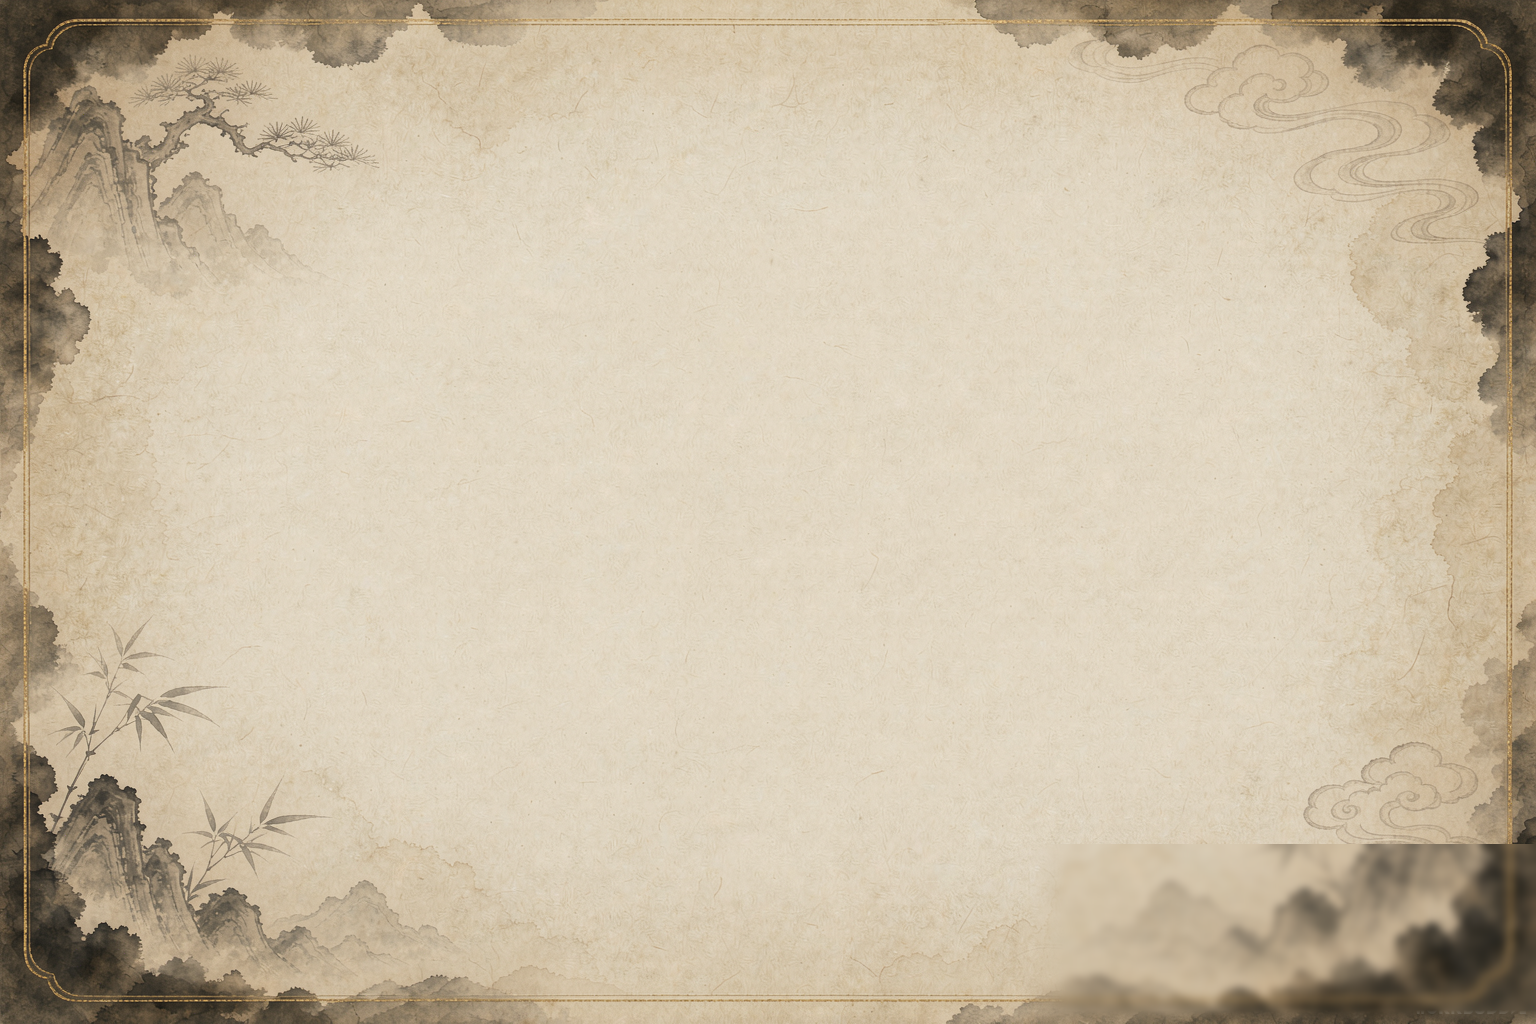
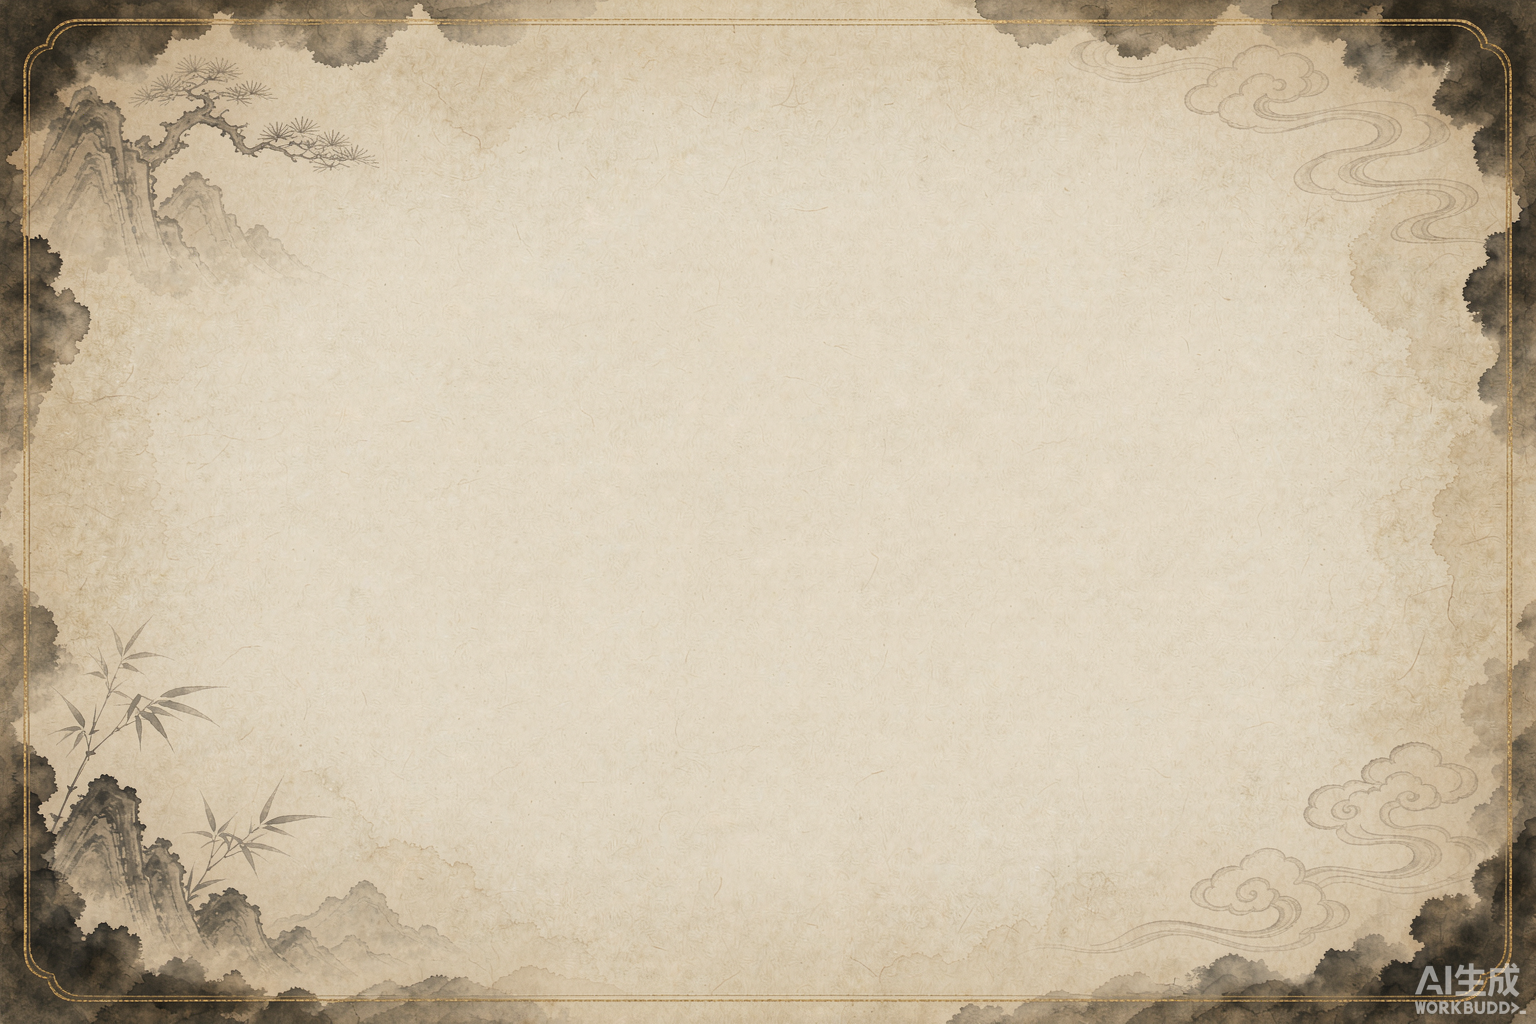
fix(编队): 出战列表只显示几行 — 名单区布局组 spacing 被撑到 109.6 + 模板行无 LayoutElement
根因：Root_Roster 的 Content 上 VerticalLayoutGroup.spacing = 109.6（应约 8），且 Item_Roster
模板行没有 LayoutElement ⇒ childControlHeight 按首选尺寸排版，行被撑大、740 高只放得下 2~3 行
（上一轮截图还是紧凑的 8 行列表）。

修：
- spacing → 8。
- 给 Item_Roster 加 LayoutElement（410×112）⇒ 一屏可见约 6 行，其余可滚动。
- UIPanelPrefabBuilder 同步（ScrollVertical spacing=8 + 模板行 LayoutElement），重建不会长回。

另：编队底图换回**未经处理的原始生成图**（不做模糊/修补、保留水印）——用户要求"不要自己加模糊，
有水印我自己处理"。

Changed region(s): [[0.6875, 0.8125, 1.0, 1.0]]

diff --git a/Assets/WanXiang/Editor/UITool/UIPanelPrefabBuilder.cs b/Assets/WanXiang/Editor/UITool/UIPanelPrefabBuilder.cs
@@ -484,10 +484,15 @@ namespace WanXiang.EditorTools
             var rosterZone = UIBuild.Right(rt, "Root_Roster", 460, 24, 140, 200);
             UIBuild.Img(rosterZone, UIBuild.Card);
             var rosterContent = UIBuild.ScrollVertical(rosterZone, "Scroll_Roster",
-                new Vector2(0f, 0f), new Vector2(1f, 1f), new Vector2(12, 12), new Vector2(-12, -12));
+                new Vector2(0f, 0f), new Vector2(1f, 1f), new Vector2(12, 12), new Vector2(-12, -12), 8f);
             var srRoster = rosterContent.parent.parent.GetComponent<ScrollRect>();
             var rosterTpl = UIBuild.Fixed(rosterContent.parent.parent, "Item_Roster",
-                new Vector2(0.5f, 0.5f), new Vector2(410, 120), Vector2.zero);
+                new Vector2(0.5f, 0.5f), new Vector2(410, 112), Vector2.zero);
+            // ★ 给模板行固定尺寸：VerticalLayoutGroup 的 childControl* 会按"首选尺寸"排版，
+            //   没有 LayoutElement 时行高/尺寸不可控（曾出现 spacing 被撑到 100+、只显示 2 行）。
+            var rosterLe = rosterTpl.gameObject.AddComponent<LayoutElement>();
+            rosterLe.preferredWidth = 410f; rosterLe.minWidth = 410f;
+            rosterLe.preferredHeight = 112f; rosterLe.minHeight = 112f;
             rosterTpl.gameObject.SetActive(false);
             UIBuild.Img(rosterTpl, UIBuild.Card, true);
             var head = UIBuild.Fixed(rosterTpl, "Img_Head", new Vector2(0f, 0.5f),
